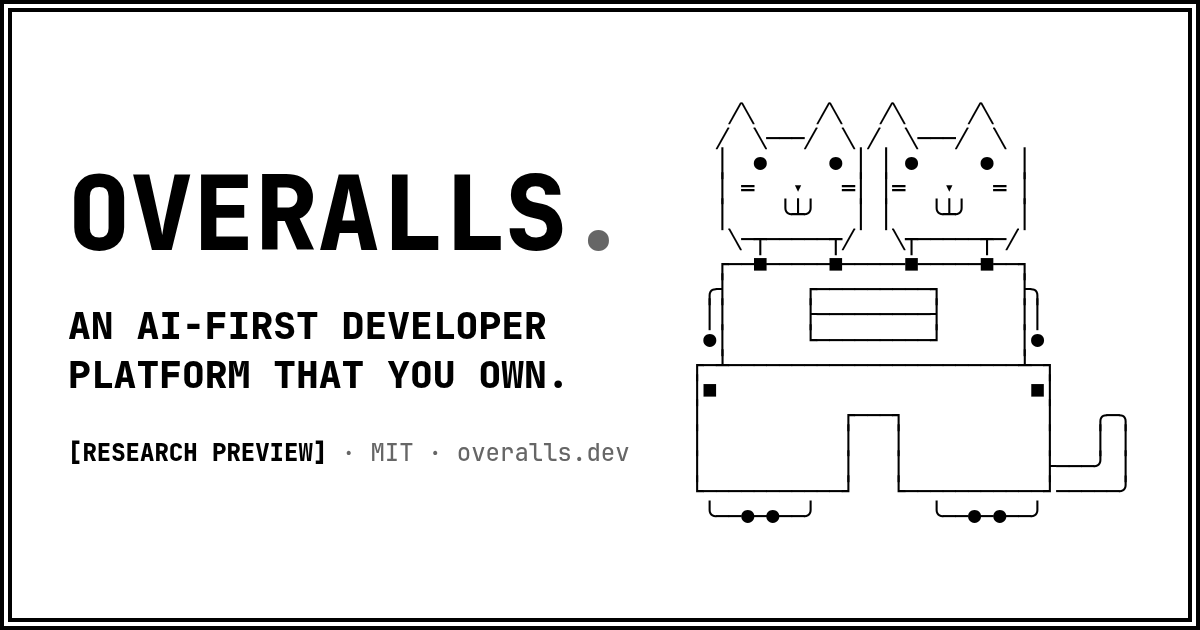
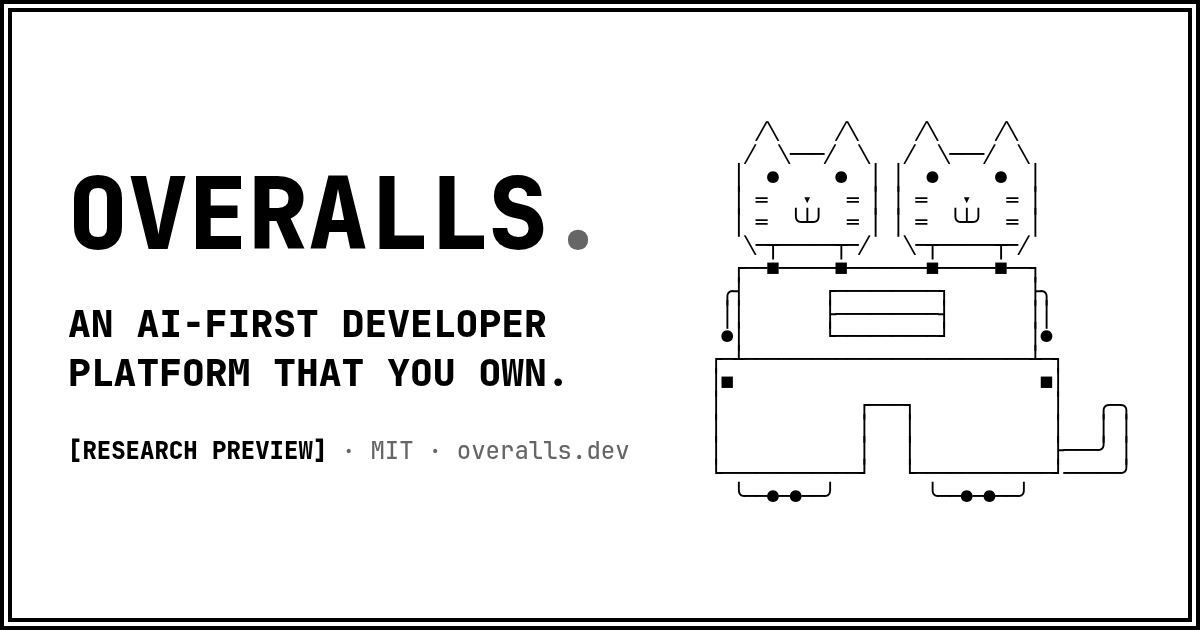
Align the second kitten's ears; generate the mark on the canvas
The hand-drawn two-kitten mark had the second kitten's ears a column
off. tools/site/mark.py now draws both heads with the same geometry,
13 columns wide with a centred nose, and centres the bib, pocket and
legs under them. Refresh the social card to match.

Also: "Add --json when a script (or agent) is reading the output."

diff --git a/tools/site/og.html b/tools/site/og.html
@@ -9,14 +9,14 @@
 html, body { width: 1200px; height: 630px; overflow: hidden; }
 body { font-size: 24px; }
 .card { box-sizing: border-box; width: 1200px; height: 630px; padding: 48px 56px; display: grid;
-  grid-template-columns: 1fr max-content; gap: 48px; align-items: center;
+  grid-template-columns: 1fr max-content; gap: 40px; align-items: center;
   border: 12px double var(--text-color); }
-.brand { font-weight: 800; font-size: 104px; line-height: 1; text-transform: uppercase; margin: 0; }
+.brand { font-weight: 800; font-size: 100px; white-space: nowrap; line-height: 1; text-transform: uppercase; margin: 0; }
 .brand span { color: var(--text-color-alt); }
 .tag { font-size: 38px; line-height: 1.3; font-weight: 800; text-transform: uppercase; margin: 36px 0 0; text-wrap: balance; }
 .meta { font-size: 24px; line-height: 1.4; color: var(--text-color-alt); margin: 36px 0 0; }
 .meta b { color: var(--text-color); }
-pre.mark { font-size: 21px; line-height: 1.2; margin: 0; }
+pre.mark { font-size: 19px; line-height: 1.2; margin: 0; }
 </style>
 </head>
 <body>
@@ -26,23 +26,23 @@ pre.mark { font-size: 21px; line-height: 1.2; margin: 0; }
 <p class="tag">An AI-first developer platform that you own.</p>
 <p class="meta"><b>[RESEARCH PREVIEW]</b> · MIT · overalls.dev</p>
 </div>
-<pre class="mark" aria-hidden="true">   ╱╲     ╱╲   ╱╲     ╱╲
-  ╱  ╲───╱  ╲ ╱  ╲───╱  ╲
-  │  ●     ● │ │ ●     ●  │
-  │ ═   ▾   ═│ │═   ▾   ═ │
-  │    ╰┴╯   │ │   ╰┴╯    │
-   ╲─┬─────┬╱   ╲┬─────┬─╱
-  ┌──■─────■─────■─────■──┐
- ╭┤      ┌─────────┐      ├╮
- ││      ├─────────┤      ││
- ●│      └─────────┘      │●
-┌─┴───────────────────────┴─┐
-│■                         ■│
-│           ┌───┐           │   ╭─╮
-│           │   │           │   │ │
-│           │   │           ├───╯ │
-└───────────┘   └───────────┘─────╯
- ╰──●─●──╯         ╰──●─●──╯</pre>
+<pre class="mark" aria-hidden="true">    ╱╲     ╱╲     ╱╲     ╱╲
+   ╱  ╲───╱  ╲   ╱  ╲───╱  ╲
+  │  ●     ●  │ │  ●     ●  │
+  │ ═   ▾   ═ │ │ ═   ▾   ═ │
+  │ ═  ╰┴╯  ═ │ │ ═  ╰┴╯  ═ │
+   ╲─┬─────┬─╱   ╲─┬─────┬─╱
+  ┌──■─────■───────■─────■──┐
+ ╭┤       ┌─────────┐       ├╮
+ ││       ├─────────┤       ││
+ ●│       └─────────┘       │●
+┌─┴─────────────────────────┴─┐
+│■                           ■│
+│            ┌───┐            │   ╭─╮
+│            │   │            │   │ │
+│            │   │            ├───╯ │
+└────────────┘   └────────────┘─────╯
+  ╰──●─●──╯        ╰──●─●──╯</pre>
 </div>
 </body>
 </html>

diff --git a/index.html b/index.html
@@ -91,23 +91,23 @@
 </div>
 </div>
 <figure>
-<pre class="mark" aria-hidden="true">   ╱╲     ╱╲   ╱╲     ╱╲
-  ╱  ╲───╱  ╲ ╱  ╲───╱  ╲
-  │  ●     ● │ │ ●     ●  │
-  │ ═   ▾   ═│ │═   ▾   ═ │
-  │    ╰┴╯   │ │   ╰┴╯    │
-   ╲─┬─────┬╱   ╲┬─────┬─╱
-  ┌──■─────■─────■─────■──┐
- ╭┤      ┌─────────┐      ├╮
- ││      ├─────────┤      ││
- ●│      └─────────┘      │●
-┌─┴───────────────────────┴─┐
-│■                         ■│
-│           ┌───┐           │   ╭─╮
-│           │   │           │   │ │
-│           │   │           ├───╯ │
-└───────────┘   └───────────┘─────╯
- ╰──●─●──╯         ╰──●─●──╯</pre>
+<pre class="mark" aria-hidden="true">    ╱╲     ╱╲     ╱╲     ╱╲
+   ╱  ╲───╱  ╲   ╱  ╲───╱  ╲
+  │  ●     ●  │ │  ●     ●  │
+  │ ═   ▾   ═ │ │ ═   ▾   ═ │
+  │ ═  ╰┴╯  ═ │ │ ═  ╰┴╯  ═ │
+   ╲─┬─────┬─╱   ╲─┬─────┬─╱
+  ┌──■─────■───────■─────■──┐
+ ╭┤       ┌─────────┐       ├╮
+ ││       ├─────────┤       ││
+ ●│       └─────────┘       │●
+┌─┴─────────────────────────┴─┐
+│■                           ■│
+│            ┌───┐            │   ╭─╮
+│            │   │            │   │ │
+│            │   │            ├───╯ │
+└────────────┘   └────────────┘─────╯
+  ╰──●─●──╯        ╰──●─●──╯</pre>
 <figcaption>made to get dirty</figcaption>
 </figure>
 </div>
@@ -342,7 +342,7 @@ ssh · web ────────────────────▶ Audi 
 
 <section aria-labelledby="taste">
 <h2 id="taste">A taste</h2>
-<p>Every management command works in the browser, at an interactive SSH prompt or as a one-off <code>ssh</code> command. Add <code>--json</code> when a script is reading the output.</p>
+<p>Every management command works in the browser, at an interactive SSH prompt or as a one-off <code>ssh</code> command. Add <code>--json</code> when a script (or agent) is reading the output.</p>
 <pre class="term" data-copy><span class="prompt">$ </span>ssh &lt;gateway&gt; new --name scratch
 <span class="prompt">$ </span>ssh &lt;gateway&gt; ls
 <span class="prompt">$ </span>ssh &lt;gateway&gt; resize scratch --cpu 4 --memory 8192

diff --git a/404.html b/404.html
@@ -65,23 +65,23 @@
 </table>
 </header>
 <main id="main-content" class="error-page">
-<pre class="mark" aria-hidden="true">   ╱╲     ╱╲   ╱╲     ╱╲
-  ╱  ╲───╱  ╲ ╱  ╲───╱  ╲
-  │  ●     ● │ │ ●     ●  │
-  │ ═   ▾   ═│ │═   ▾   ═ │
-  │    ╰┴╯   │ │   ╰┴╯    │
-   ╲─┬─────┬╱   ╲┬─────┬─╱
-  ┌──■─────■─────■─────■──┐
- ╭┤      ┌─────────┐      ├╮
- ││      ├─────────┤      ││
- ●│      └─────────┘      │●
-┌─┴───────────────────────┴─┐
-│■                         ■│
-│           ┌───┐           │   ╭─╮
-│           │   │           │   │ │
-│           │   │           ├───╯ │
-└───────────┘   └───────────┘─────╯
- ╰──●─●──╯         ╰──●─●──╯</pre>
+<pre class="mark" aria-hidden="true">    ╱╲     ╱╲     ╱╲     ╱╲
+   ╱  ╲───╱  ╲   ╱  ╲───╱  ╲
+  │  ●     ●  │ │  ●     ●  │
+  │ ═   ▾   ═ │ │ ═   ▾   ═ │
+  │ ═  ╰┴╯  ═ │ │ ═  ╰┴╯  ═ │
+   ╲─┬─────┬─╱   ╲─┬─────┬─╱
+  ┌──■─────■───────■─────■──┐
+ ╭┤       ┌─────────┐       ├╮
+ ││       ├─────────┤       ││
+ ●│       └─────────┘       │●
+┌─┴─────────────────────────┴─┐
+│■                           ■│
+│            ┌───┐            │   ╭─╮
+│            │   │            │   │ │
+│            │   │            ├───╯ │
+└────────────┘   └────────────┘─────╯
+  ╰──●─●──╯        ╰──●─●──╯</pre>
 <h1>Not found</h1>
 <p>There's nothing at this address. It may have moved while we were tidying the workshop.</p>
 <p><a class="console-button primary" href="/index.html">← Back home</a></p>

diff --git a/tools/site/mark.py b/tools/site/mark.py
@@ -1,0 +1,47 @@
+"""The two-kittens-in-overalls mark, drawn on the character canvas so every
+ear, strap and seam lines up. Run it and paste the output into MARK in layout.py."""
+import pathlib, sys
+sys.path.insert(0, str(pathlib.Path(__file__).resolve().parents[2] / ".claude/skills/overalls-design/scripts"))
+from canvas import Canvas
+
+c = Canvas(40, 18)
+HW = 13                       # head width, odd so the nose has a centre column
+heads = [2, 16]               # left wall of each head
+for L in heads:
+    R = L + HW - 1
+    c.put(0, L + 2, "╱╲"); c.put(0, R - 3, "╱╲")                  # ear tips
+    c.put(1, L + 1, "╱"); c.put(1, L + 4, "╲")                    # ear bases
+    c.put(1, L + 5, "─" * (R - L - 9)); c.put(1, R - 4, "╱"); c.put(1, R - 1, "╲")
+    for row in (2, 3, 4):
+        c.put(row, L, "│"); c.put(row, R, "│")
+    c.put(2, L + 3, "●"); c.put(2, R - 3, "●")                    # eyes
+    c.put(3, L + 2, "═"); c.put(3, R - 2, "═"); c.put(3, L + 6, "▾")
+    c.put(4, L + 2, "═"); c.put(4, R - 2, "═"); c.put(4, L + 5, "╰┴╯")
+    c.put(5, L + 1, "╲" + "─" * (HW - 4) + "╱")                   # chin
+    c.put(5, L + 3, "┬"); c.put(5, R - 3, "┬")                    # straps under the eyes
+
+BL, BR = heads[0], heads[1] + HW - 1                               # bib walls line up with the outer cheeks
+mid = (BL + BR) // 2
+c.put(6, BL, "┌" + "─" * (BR - BL - 1) + "┐")
+for L in heads:
+    c.put(6, L + 3, "■"); c.put(6, L + HW - 4, "■")              # button rivets under each strap
+for row, pocket in ((7, "┌─────────┐"), (8, "├─────────┤"), (9, "└─────────┘")):
+    c.put(row, BL, "│"); c.put(row, BR, "│"); c.centre(row, mid, pocket)
+c.put(7, BL - 1, "╭┤"); c.put(7, BR, "├╮")                      # arms
+c.put(8, BL - 1, "│"); c.put(8, BR + 1, "│")
+c.put(9, BL - 1, "●"); c.put(9, BR + 1, "●")                    # paws
+
+WL, WR = BL - 2, BR + 2                                            # waist is two columns wider each side
+c.put(10, WL, "┌─" + "─" * (WR - WL - 3) + "─┐"); c.put(10, BL, "┴"); c.put(10, BR, "┴")
+c.put(11, WL, "│■" + " " * (WR - WL - 3) + "■│")
+for row in (12, 13, 14):
+    c.put(row, WL, "│"); c.put(row, WR, "│")
+c.put(12, mid - 2, "┌───┐")
+for row in (13, 14):
+    c.put(row, mid - 2, "│"); c.put(row, mid + 2, "│")
+c.put(15, WL, "└" + "─" * (mid - 2 - WL - 1) + "┘   └" + "─" * (WR - mid - 3) + "┘")
+c.put(12, WR + 4, "╭─╮"); c.put(13, WR + 4, "│ │")             # tail
+c.put(14, WR, "├───╯ │"); c.put(15, WR, "┘─────╯")
+c.centre(16, (WL + mid - 2) // 2, "╰──●─●──╯")                    # toe beans
+c.centre(16, (mid + 2 + WR) // 2, "╰──●─●──╯")
+print(c.render())

diff --git a/tools/site/layout.py b/tools/site/layout.py
@@ -5,23 +5,23 @@ DOCS = SOURCE + "/blob/main/docs/"
 ADR = DOCS + "architecture/decisions/"
 
 MARK = """\
-   ╱╲     ╱╲   ╱╲     ╱╲
-  ╱  ╲───╱  ╲ ╱  ╲───╱  ╲
-  │  ●     ● │ │ ●     ●  │
-  │ ═   ▾   ═│ │═   ▾   ═ │
-  │    ╰┴╯   │ │   ╰┴╯    │
-   ╲─┬─────┬╱   ╲┬─────┬─╱
-  ┌──■─────■─────■─────■──┐
- ╭┤      ┌─────────┐      ├╮
- ││      ├─────────┤      ││
- ●│      └─────────┘      │●
-┌─┴───────────────────────┴─┐
-│■                         ■│
-│           ┌───┐           │   ╭─╮
-│           │   │           │   │ │
-│           │   │           ├───╯ │
-└───────────┘   └───────────┘─────╯
- ╰──●─●──╯         ╰──●─●──╯"""
+    ╱╲     ╱╲     ╱╲     ╱╲
+   ╱  ╲───╱  ╲   ╱  ╲───╱  ╲
+  │  ●     ●  │ │  ●     ●  │
+  │ ═   ▾   ═ │ │ ═   ▾   ═ │
+  │ ═  ╰┴╯  ═ │ │ ═  ╰┴╯  ═ │
+   ╲─┬─────┬─╱   ╲─┬─────┬─╱
+  ┌──■─────■───────■─────■──┐
+ ╭┤       ┌─────────┐       ├╮
+ ││       ├─────────┤       ││
+ ●│       └─────────┘       │●
+┌─┴─────────────────────────┴─┐
+│■                           ■│
+│            ┌───┐            │   ╭─╮
+│            │   │            │   │ │
+│            │   │            ├───╯ │
+└────────────┘   └────────────┘─────╯
+  ╰──●─●──╯        ╰──●─●──╯"""
 
 # Simple Analytics through the api.ghuntley.com proxy, on every page. The only
 # resource the site loads from another origin.

diff --git a/tools/site/pages_main.py b/tools/site/pages_main.py
@@ -246,7 +246,7 @@ def landing():
 
 <section aria-labelledby="taste">
 <h2 id="taste">A taste</h2>
-<p>Every management command works in the browser, at an interactive SSH prompt or as a one-off <code>ssh</code> command. Add <code>--json</code> when a script is reading the output.</p>
+<p>Every management command works in the browser, at an interactive SSH prompt or as a one-off <code>ssh</code> command. Add <code>--json</code> when a script (or agent) is reading the output.</p>
 <pre class="term" data-copy><span class="prompt">$ </span>ssh &lt;gateway&gt; new --name scratch
 <span class="prompt">$ </span>ssh &lt;gateway&gt; ls
 <span class="prompt">$ </span>ssh &lt;gateway&gt; resize scratch --cpu 4 --memory 8192

diff --git a/.claude/skills/overalls-design/references/brand.md b/.claude/skills/overalls-design/references/brand.md
@@ -21,27 +21,27 @@ Overalls grew out of Kittens, so the mark is two kittens squeezed side by side i
 overalls:
 
 ```
-   ╱╲     ╱╲   ╱╲     ╱╲
-  ╱  ╲───╱  ╲ ╱  ╲───╱  ╲
-  │  ●     ● │ │ ●     ●  │
-  │ ═   ▾   ═│ │═   ▾   ═ │
-  │    ╰┴╯   │ │   ╰┴╯    │
-   ╲─┬─────┬╱   ╲┬─────┬─╱
-  ┌──■─────■─────■─────■──┐
- ╭┤      ┌─────────┐      ├╮
- ││      ├─────────┤      ││
- ●│      └─────────┘      │●
-┌─┴───────────────────────┴─┐
-│■                         ■│
-│           ┌───┐           │   ╭─╮
-│           │   │           │   │ │
-│           │   │           ├───╯ │
-└───────────┘   └───────────┘─────╯
- ╰──●─●──╯         ╰──●─●──╯
+    ╱╲     ╱╲     ╱╲     ╱╲
+   ╱  ╲───╱  ╲   ╱  ╲───╱  ╲
+  │  ●     ●  │ │  ●     ●  │
+  │ ═   ▾   ═ │ │ ═   ▾   ═ │
+  │ ═  ╰┴╯  ═ │ │ ═  ╰┴╯  ═ │
+   ╲─┬─────┬─╱   ╲─┬─────┬─╱
+  ┌──■─────■───────■─────■──┐
+ ╭┤       ┌─────────┐       ├╮
+ ││       ├─────────┤       ││
+ ●│       └─────────┘       │●
+┌─┴─────────────────────────┴─┐
+│■                           ■│
+│            ┌───┐            │   ╭─╮
+│            │   │            │   │ │
+│            │   │            ├───╯ │
+└────────────┘   └────────────┘─────╯
+  ╰──●─●──╯        ╰──●─●──╯
 ```
 
 - **Parts:**
-  - Two box-drawn heads, leaning in towards each other, each with pointed `╱╲` ears, `●` eyes, a
+  - Two identical box-drawn heads, 13 columns wide so the nose is centred, each with pointed `╱╲` ears, `●` eyes, a
     `▾` nose, an `ω`-shaped mouth (`╰┴╯`) and `═` whiskers.
   - Each kitten's straps (`┬`) run from its chin to its own pair of button rivets (`■`), so the bib
     has four.
@@ -50,8 +50,11 @@ overalls:
   - Waistband side buttons and two legs.
   - A tail curling up behind the right leg.
   - Toe-bean feet: `╰──●─●──╯`.
+  - The first two-kitten version was hand-drawn and its second kitten's ears were a column off,
+    which is why the mark is now generated.
 - **Rendering:** a `<pre class="mark" aria-hidden="true">` inside a `<figure>`, weight 800.
-  - It's 35 columns wide.
+  - It's 37 columns wide, drawn by `tools/site/mark.py` on the character canvas so ears, straps
+    and seams line up. Never hand-edit the art; change the script.
   - In `.mark` it's drawn at `font-size: .875rem` with `line-height: 1.2` (em-relative, so the box
     drawing joins up). That keeps the hero headline on two lines at desktop width next to it.
   - On phones it sits centred above the h1.
@@ -77,7 +80,7 @@ It has:
 - the meta line `[RESEARCH PREVIEW] · MIT · overalls.dev`
 - the two-kitten mark on the right
 
-The source is `tools/site/og.html`, and the regeneration command is in `tools/site/README.md`.
+The source is `tools/site/og.html`, and the regeneration command is in `tools/site/README.md`. On the card the mark is drawn at 19px so the wordmark stays on one line.
 Update it when the mark, tagline or launch status changes.
 
 ## Favicon
